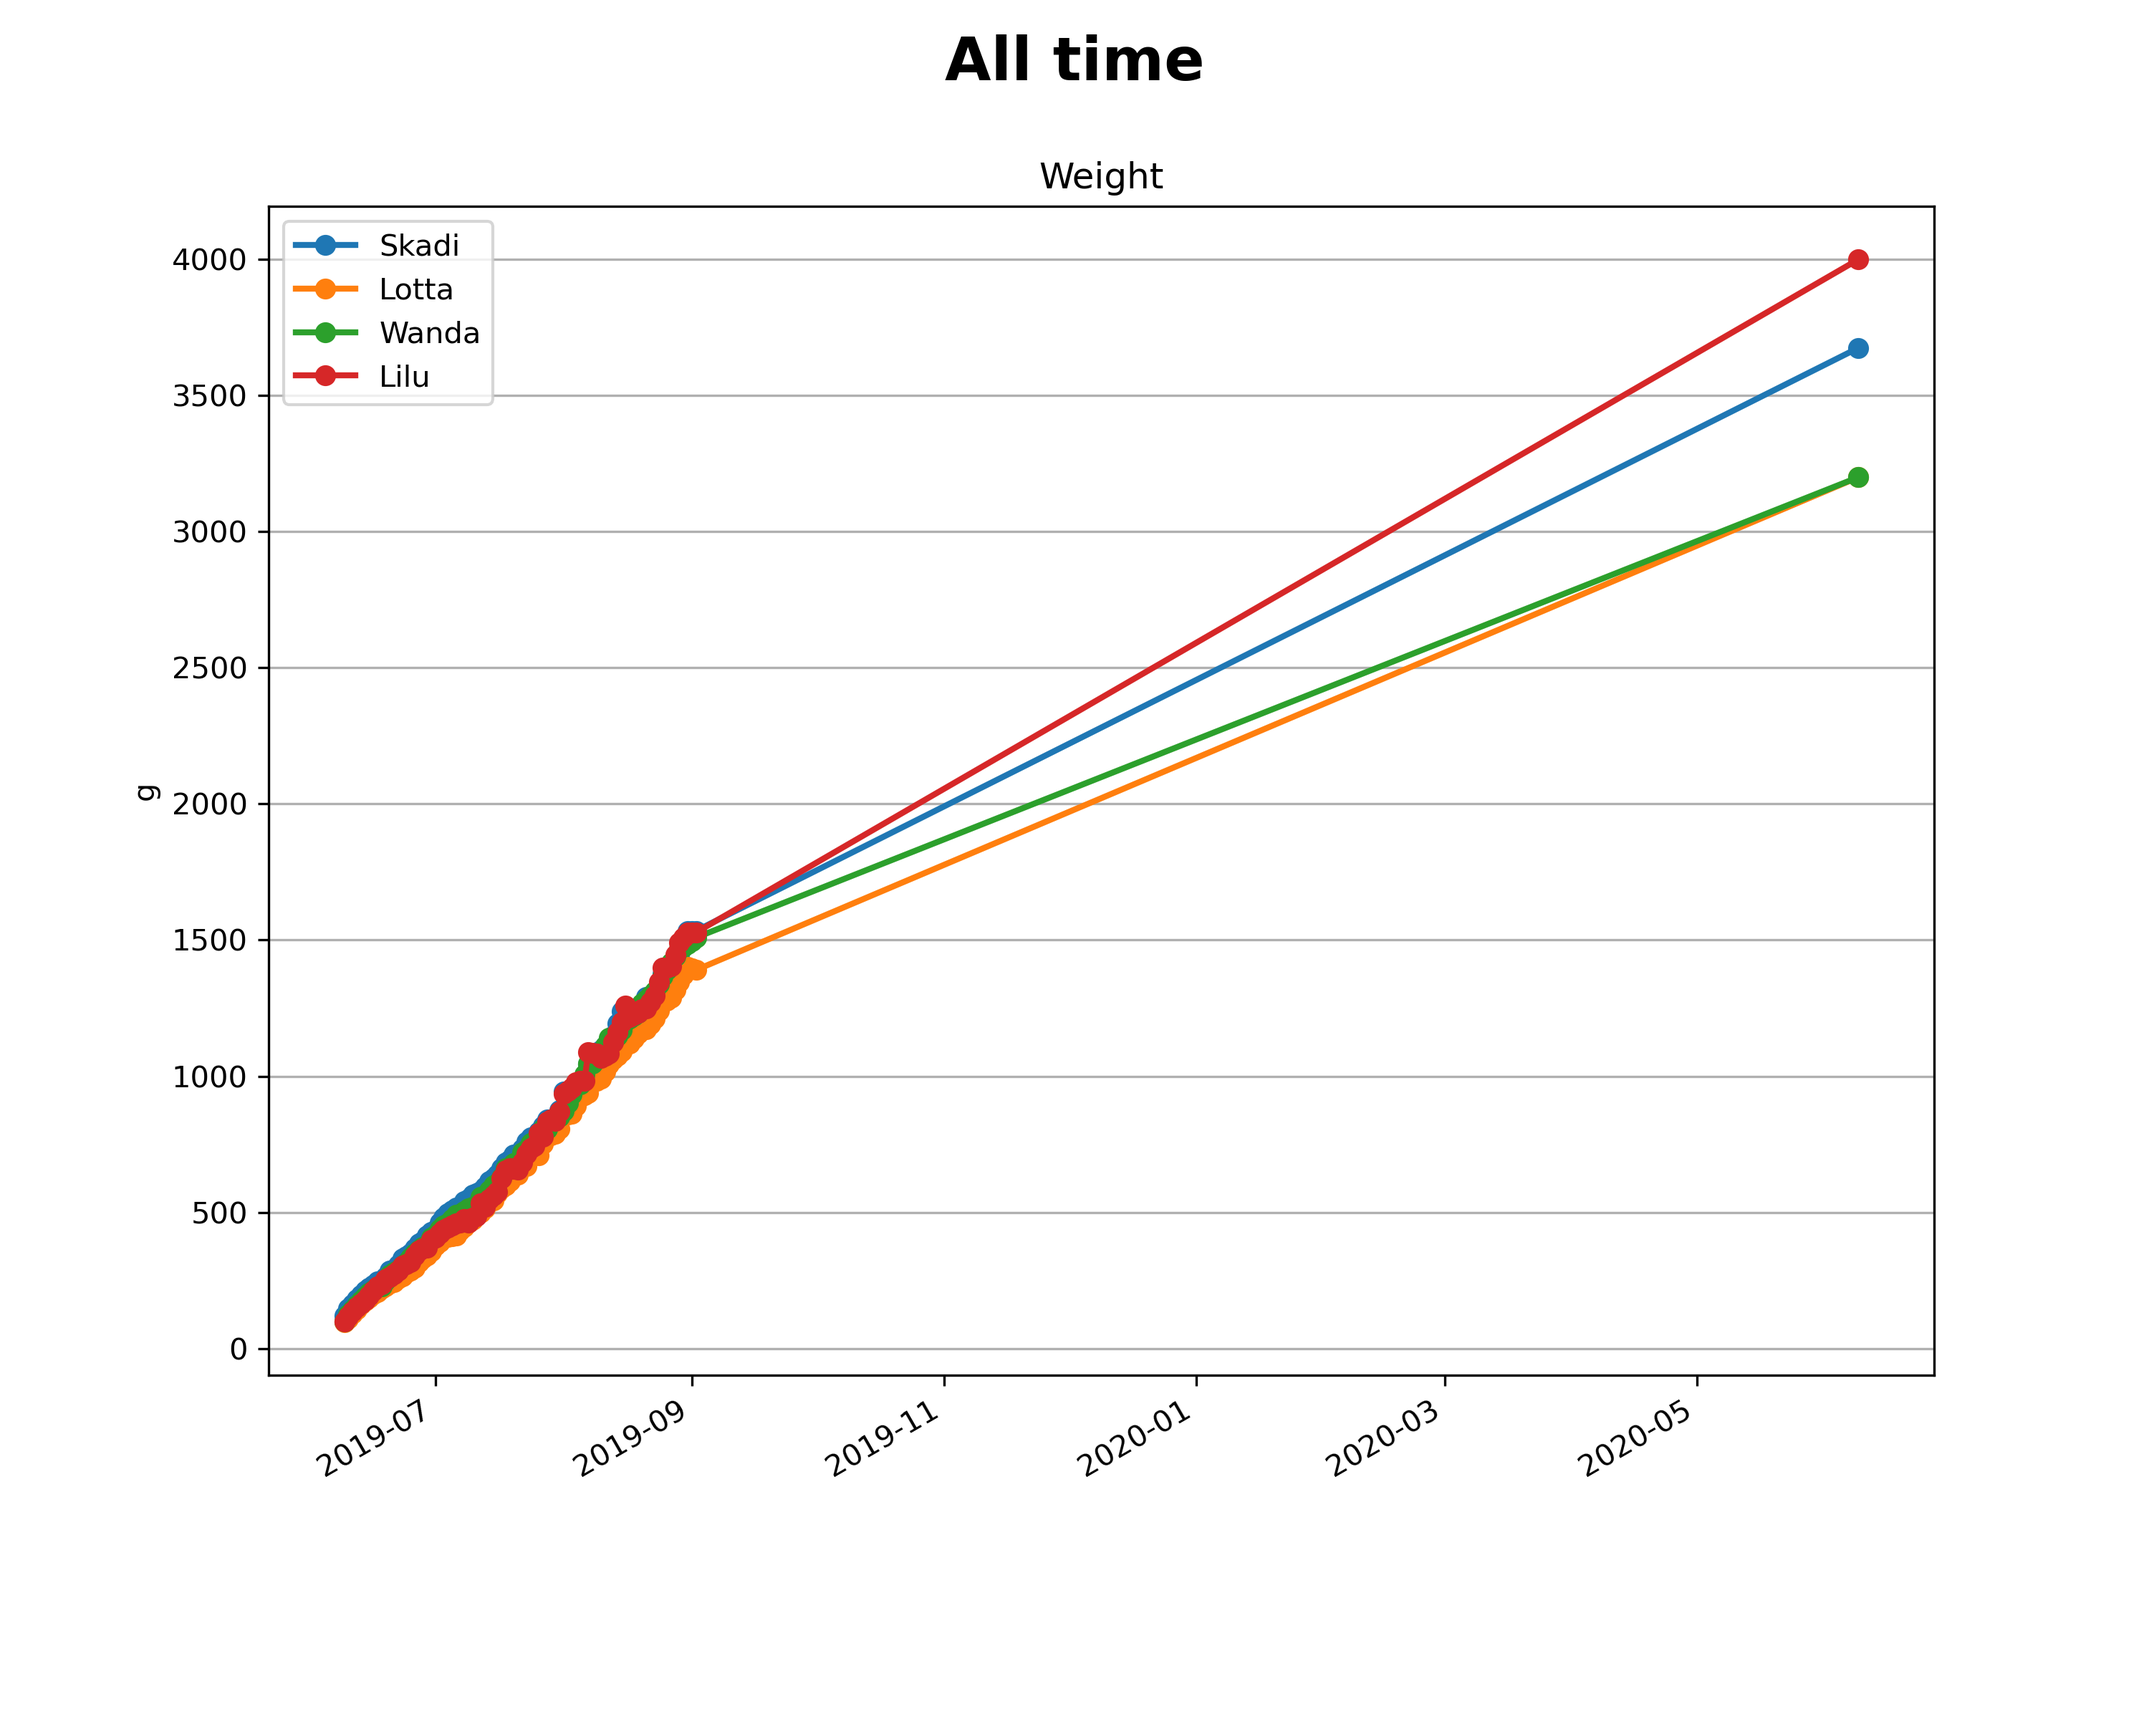
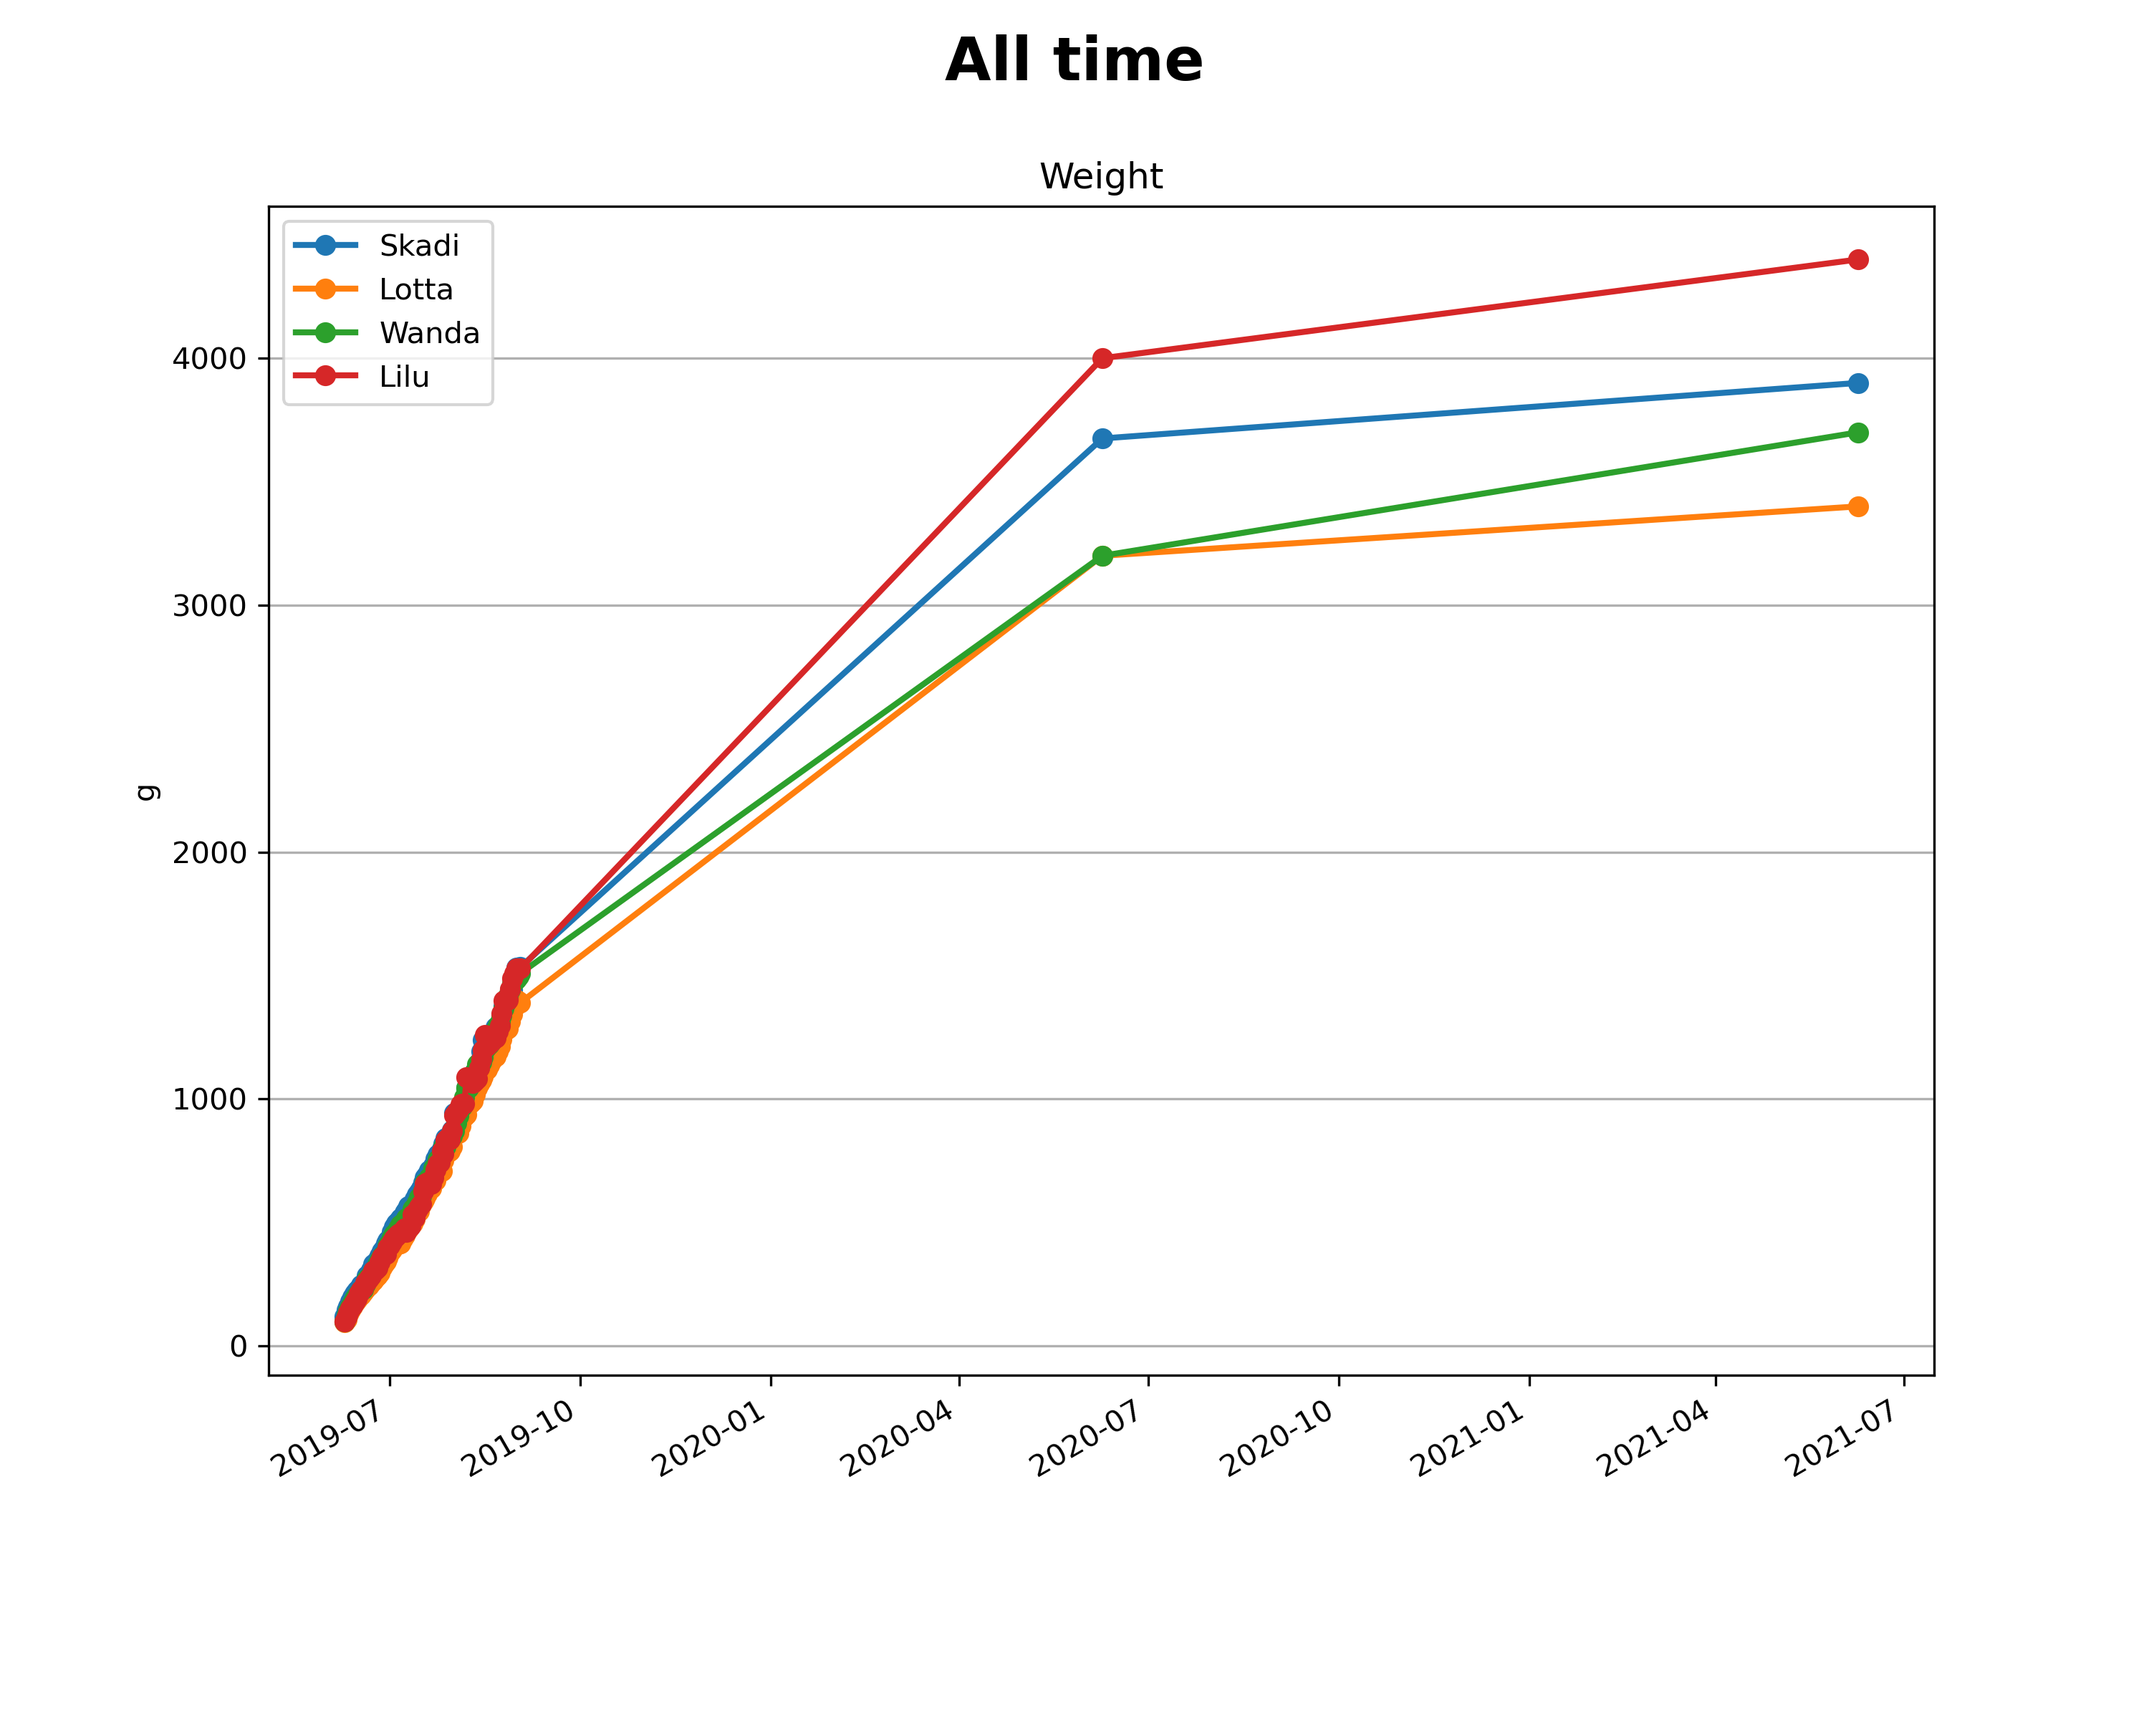
New 2021 data point. Happy birthday kittens.

diff --git a/README.md b/README.md
@@ -27,6 +27,16 @@ some German commit messages among the early commits - sorry!
 Also note, that it was not possible to weight every kitten every day.
 I interpolated those days manually, but unfortunately not marked it in the raw data. Sorry for that as well.
 
+The new owners of the cats are asked to weigh the now grown up cats once per year
+around their birthday. 
+Those yearly-based data points have to be considered much more inaccurate for the following reasons:
+
+* The weighting in the early weeks was done by us on a precise digital kitchen scale.
+  Now the new owners seem use bathroom scales with a much lower resolution (~100g) and
+  low accuracy around such low weights. Those scales are build for human weighting.
+* The four kittens now live with three different owners - each using their own scale with
+  unknown precision.
+
 ## The Analysis
 
 ### First month
